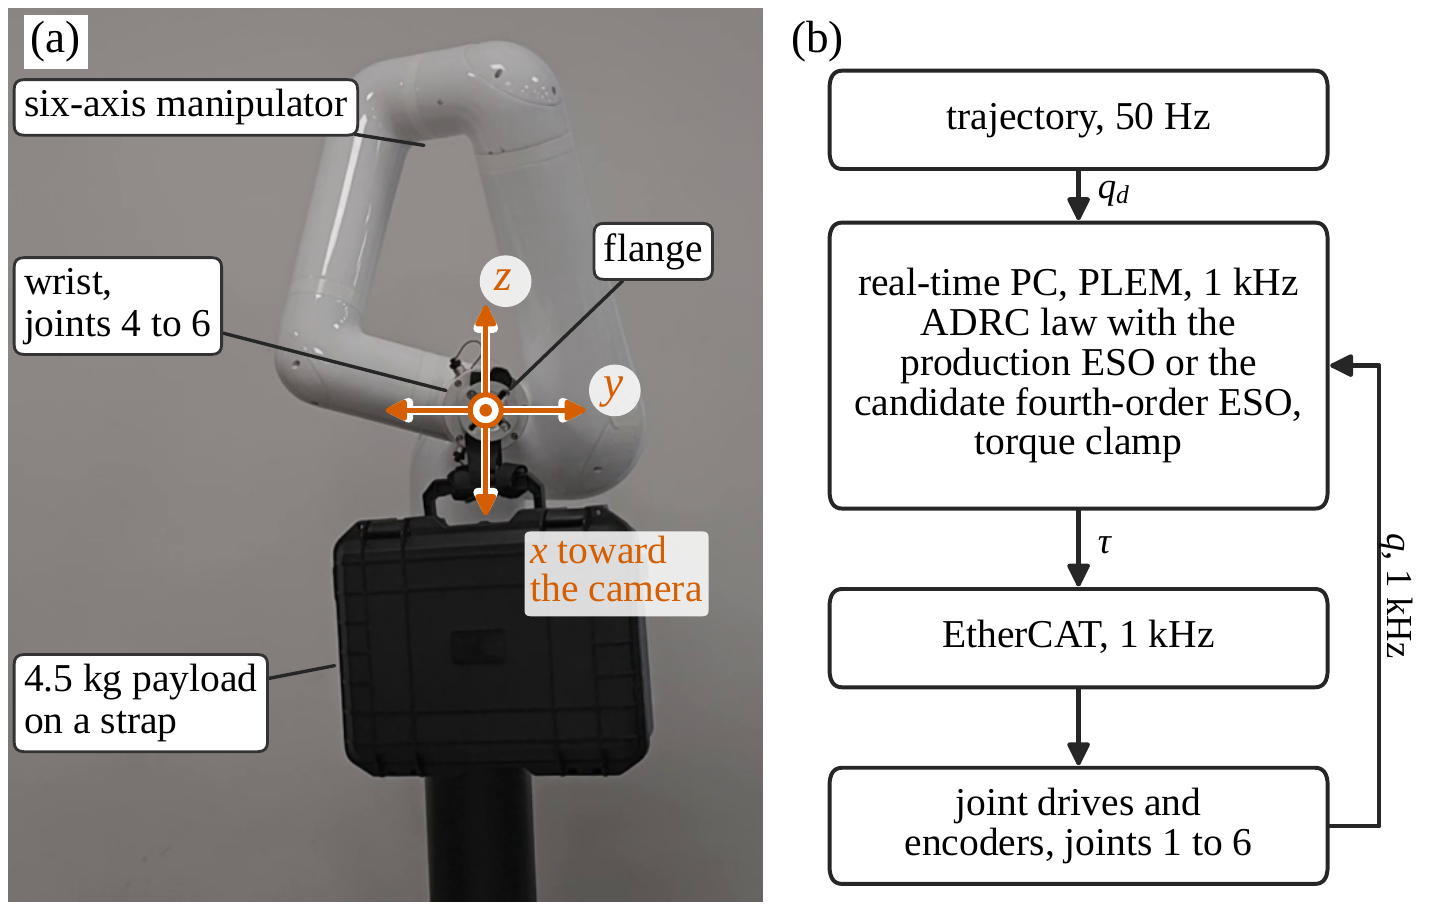
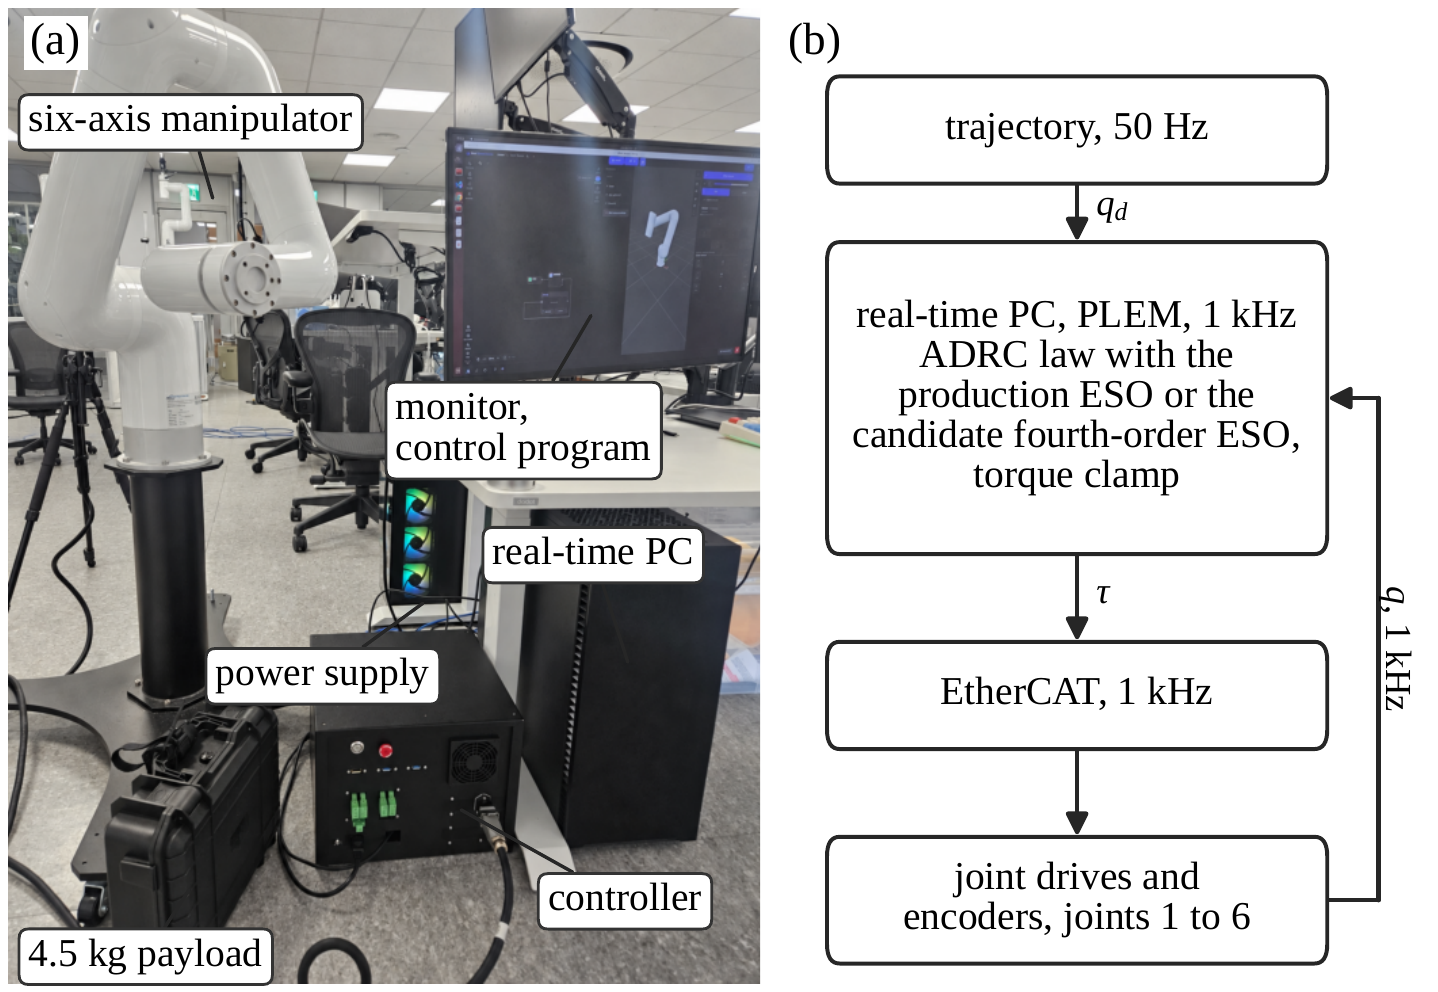
Set-up figure from the lab photo with the controller, power supply, PC, robot, payload and control program labelled

diff --git a/index.html b/index.html
@@ -160,8 +160,8 @@
     <section class="page-width section-space experiment-section" id="experiment-2" aria-labelledby="experiment-2-title">
       <h2 id="experiment-2-title">Robot, Cartesian line tracking on a six-axis manipulator</h2>
       <figure class="method-figure">
-        <img src="assets/setup.png?v=20261116d" alt="Experimental set-up. The six-axis manipulator at the start pose of the y line with the 4.5 kg payload hanging from the flange by its strap, the directions of the y and z lines, and the signal chain from the trajectory through the real-time PC and EtherCAT to the joint drives.">
-        <figcaption>Experimental set-up (Fig. 8 of the paper). (a) The manipulator at the start pose of the y line with the 4.5 kg payload hanging from the flange by its strap, and the directions of the y and z lines, the x line running toward the camera. (b) Signal chain. The trajectory is streamed at 50 Hz to the real-time PC, which runs the ADRC law with the production or the candidate observer at 1 kHz over EtherCAT and logs the joint states and torques at the same rate.</figcaption>
+        <img src="assets/setup.png?v=20261116d" alt="Experimental set-up. The six-axis manipulator on its pedestal, the 4.5 kg payload case, the controller, the power supply, the real-time PC and the monitor with the control program, and the signal chain from the trajectory through the real-time PC and EtherCAT to the joint drives.">
+        <figcaption>Experimental set-up (Fig. 8 of the paper). (a) The lab, the six-axis manipulator on its pedestal, the 4.5 kg payload case, the controller, the power supply, the real-time PC and the monitor with the control program. (b) Signal chain. The trajectory is streamed at 50 Hz to the real-time PC, which runs the ADRC law with the production or the candidate observer at 1 kHz over EtherCAT and logs the joint states and torques at the same rate.</figcaption>
       </figure>
       <figure class="method-figure">
         <img src="assets/hwtraces.png?v=20261116e" alt="Welch spectrum of the joint-5 commanded torque on the z line with the payload for four settings, and the 5 Hz high-pass torque over a 3 s excerpt of one move.">
